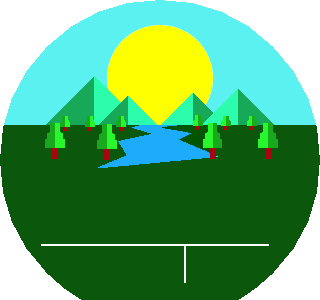
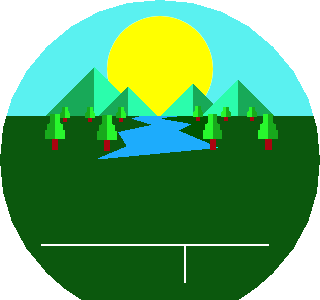
Added right-justified hours and left-justified minutes. Hacked in a fix to SLPT spacing for now; to be fixed correctly later. Bumped up the sun landscape a bit for better spacing.

Changed region(s): [[0.0, 0.03, 1.0, 0.57]]

diff --git a/app/src/main/java/com/dinodevs/greatfitweatherland/widget/MainClock.java b/app/src/main/java/com/dinodevs/greatfitweatherland/widget/MainClock.java
@@ -200,7 +200,22 @@ public class MainClock extends DigitalClockWidget {
         this.hourFont.setTypeface(ResourceManager.getTypeFace(service.getResources(), ResourceManager.Font.FONT_FILE));
         this.hourFont.setTextSize(settings.hoursFontSize);
         this.hourFont.setColor(settings.hoursColor);
-        this.hourFont.setTextAlign((settings.hoursAlignLeft)? Paint.Align.LEFT : Paint.Align.CENTER);
+        switch(settings.hoursAlign)
+        {
+            case 1:
+                this.hourFont.setTextAlign(Paint.Align.CENTER);
+                Log.d("Rubylark-Weatherland","Hours are aligned center");
+                break;
+            case 2:
+                this.hourFont.setTextAlign(Paint.Align.RIGHT);
+                Log.d("Rubylark-Weatherland","Hours are aligned right");
+                break;
+            default:
+                this.hourFont.setTextAlign(Paint.Align.LEFT);
+                Log.d("Rubylark-Weatherland","Hours are aligned left");
+                break;
+        }
+        //this.hourFont.setTextAlign((settings.hoursAlignLeft)? Paint.Align.LEFT : Paint.Align.CENTER);
 
         this.minutesFont = new TextPaint(TextPaint.ANTI_ALIAS_FLAG);
         this.minutesFont.setTypeface(ResourceManager.getTypeFace(service.getResources(), ResourceManager.Font.FONT_FILE));
@@ -371,7 +386,7 @@ public class MainClock extends DigitalClockWidget {
                     (int) (settings.hoursFontSize)
             );
             hourLayout.setStart(
-                    -320,
+                    -362,//-320
                     (int) (settings.hoursTop-((float)settings.font_ratio/100)*settings.hoursFontSize)
             );
             //Add it to the list
@@ -397,7 +412,7 @@ public class MainClock extends DigitalClockWidget {
                     (int) (settings.minutesFontSize)
             );
             minuteLayout.setStart(
-                    -320,
+                    -268,//-320
                     (int) (settings.minutesTop-((float)settings.font_ratio/100)*settings.minutesFontSize)
             );
             //Add it to the list

diff --git a/app/src/main/java/com/dinodevs/greatfitweatherland/settings/LoadSettings.java b/app/src/main/java/com/dinodevs/greatfitweatherland/settings/LoadSettings.java
@@ -66,7 +66,7 @@ public class LoadSettings {
     public float hoursLeft;
     public float hoursTop;
     public int hoursColor;
-    public boolean hoursAlignLeft;
+    public int hoursAlign;
     // Indicator
     public float indicatorFontSize;
     public float indicatorLeft;
@@ -528,8 +528,9 @@ public class LoadSettings {
                 }else{
                     this.hoursColor = sharedPreferences.getInt("hoursColor", hours.getColor(i++, 0));
                 }
-
-                this.hoursAlignLeft = sharedPreferences.getBoolean("hoursAlignLeft", hours.getBoolean(i, true));
+                Log.d("Rubylark-Weatherland", "Hours alignment is " +hours.getInteger(i, 0));
+                this.hoursAlign = sharedPreferences.getInt("hoursAlign", hours.getInteger(i, 0));
+                //this.hoursAlignLeft = sharedPreferences.getBoolean("hoursAlignLeft", hours.getBoolean(i, true));
                 hours.recycle();
             }
         // Indicator
